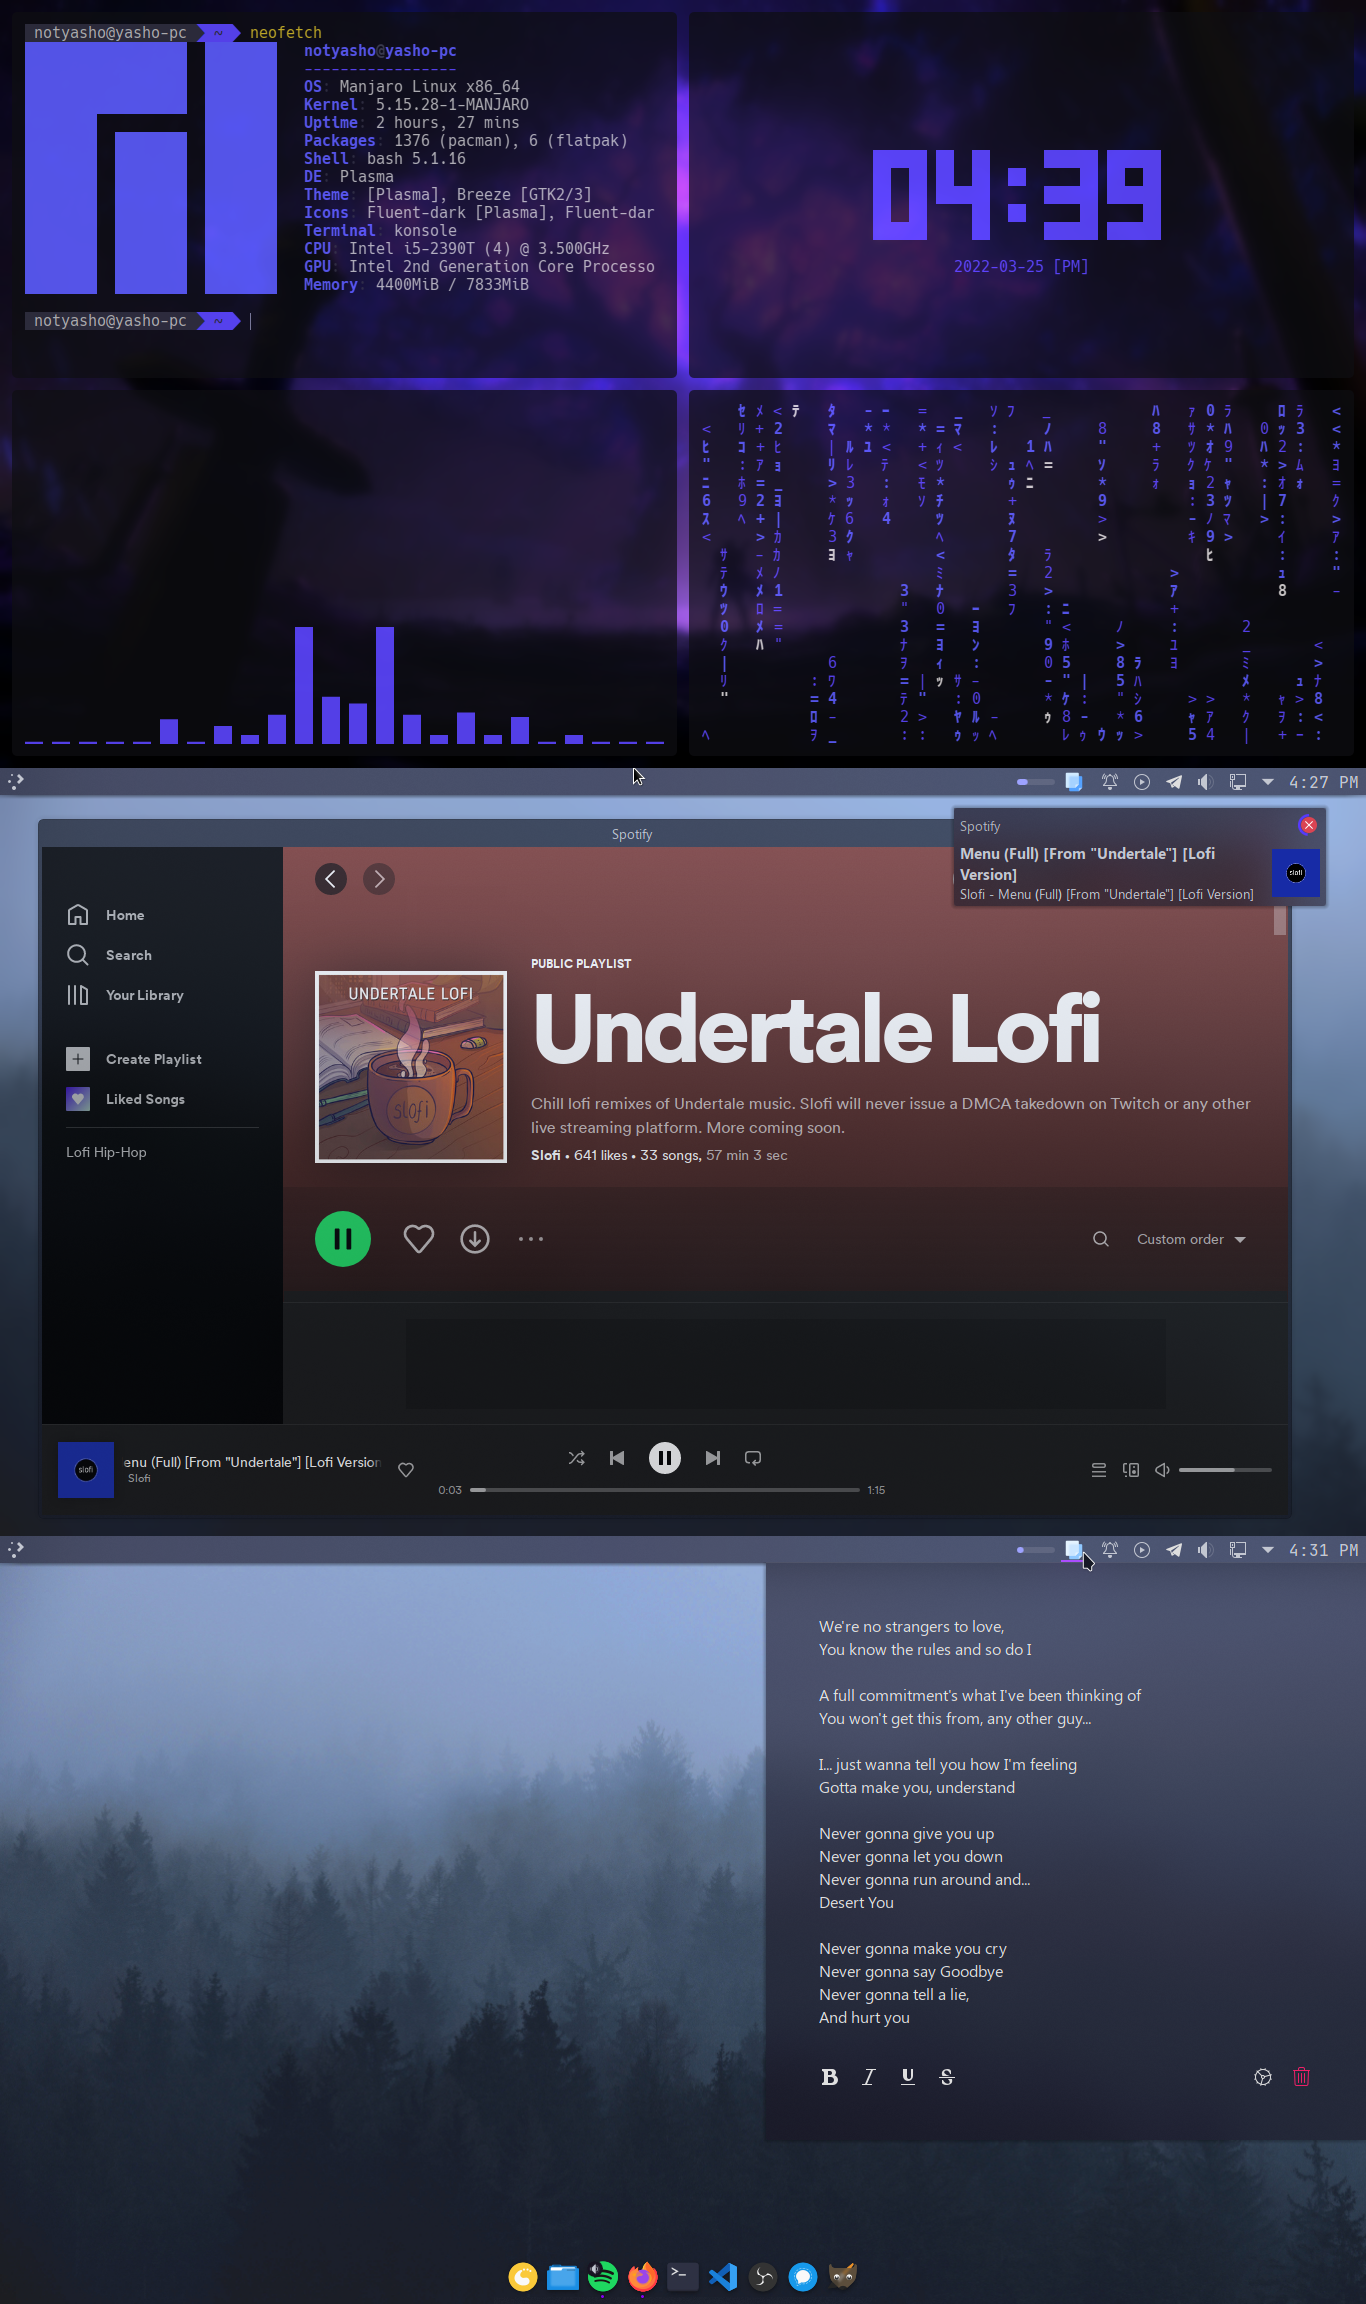
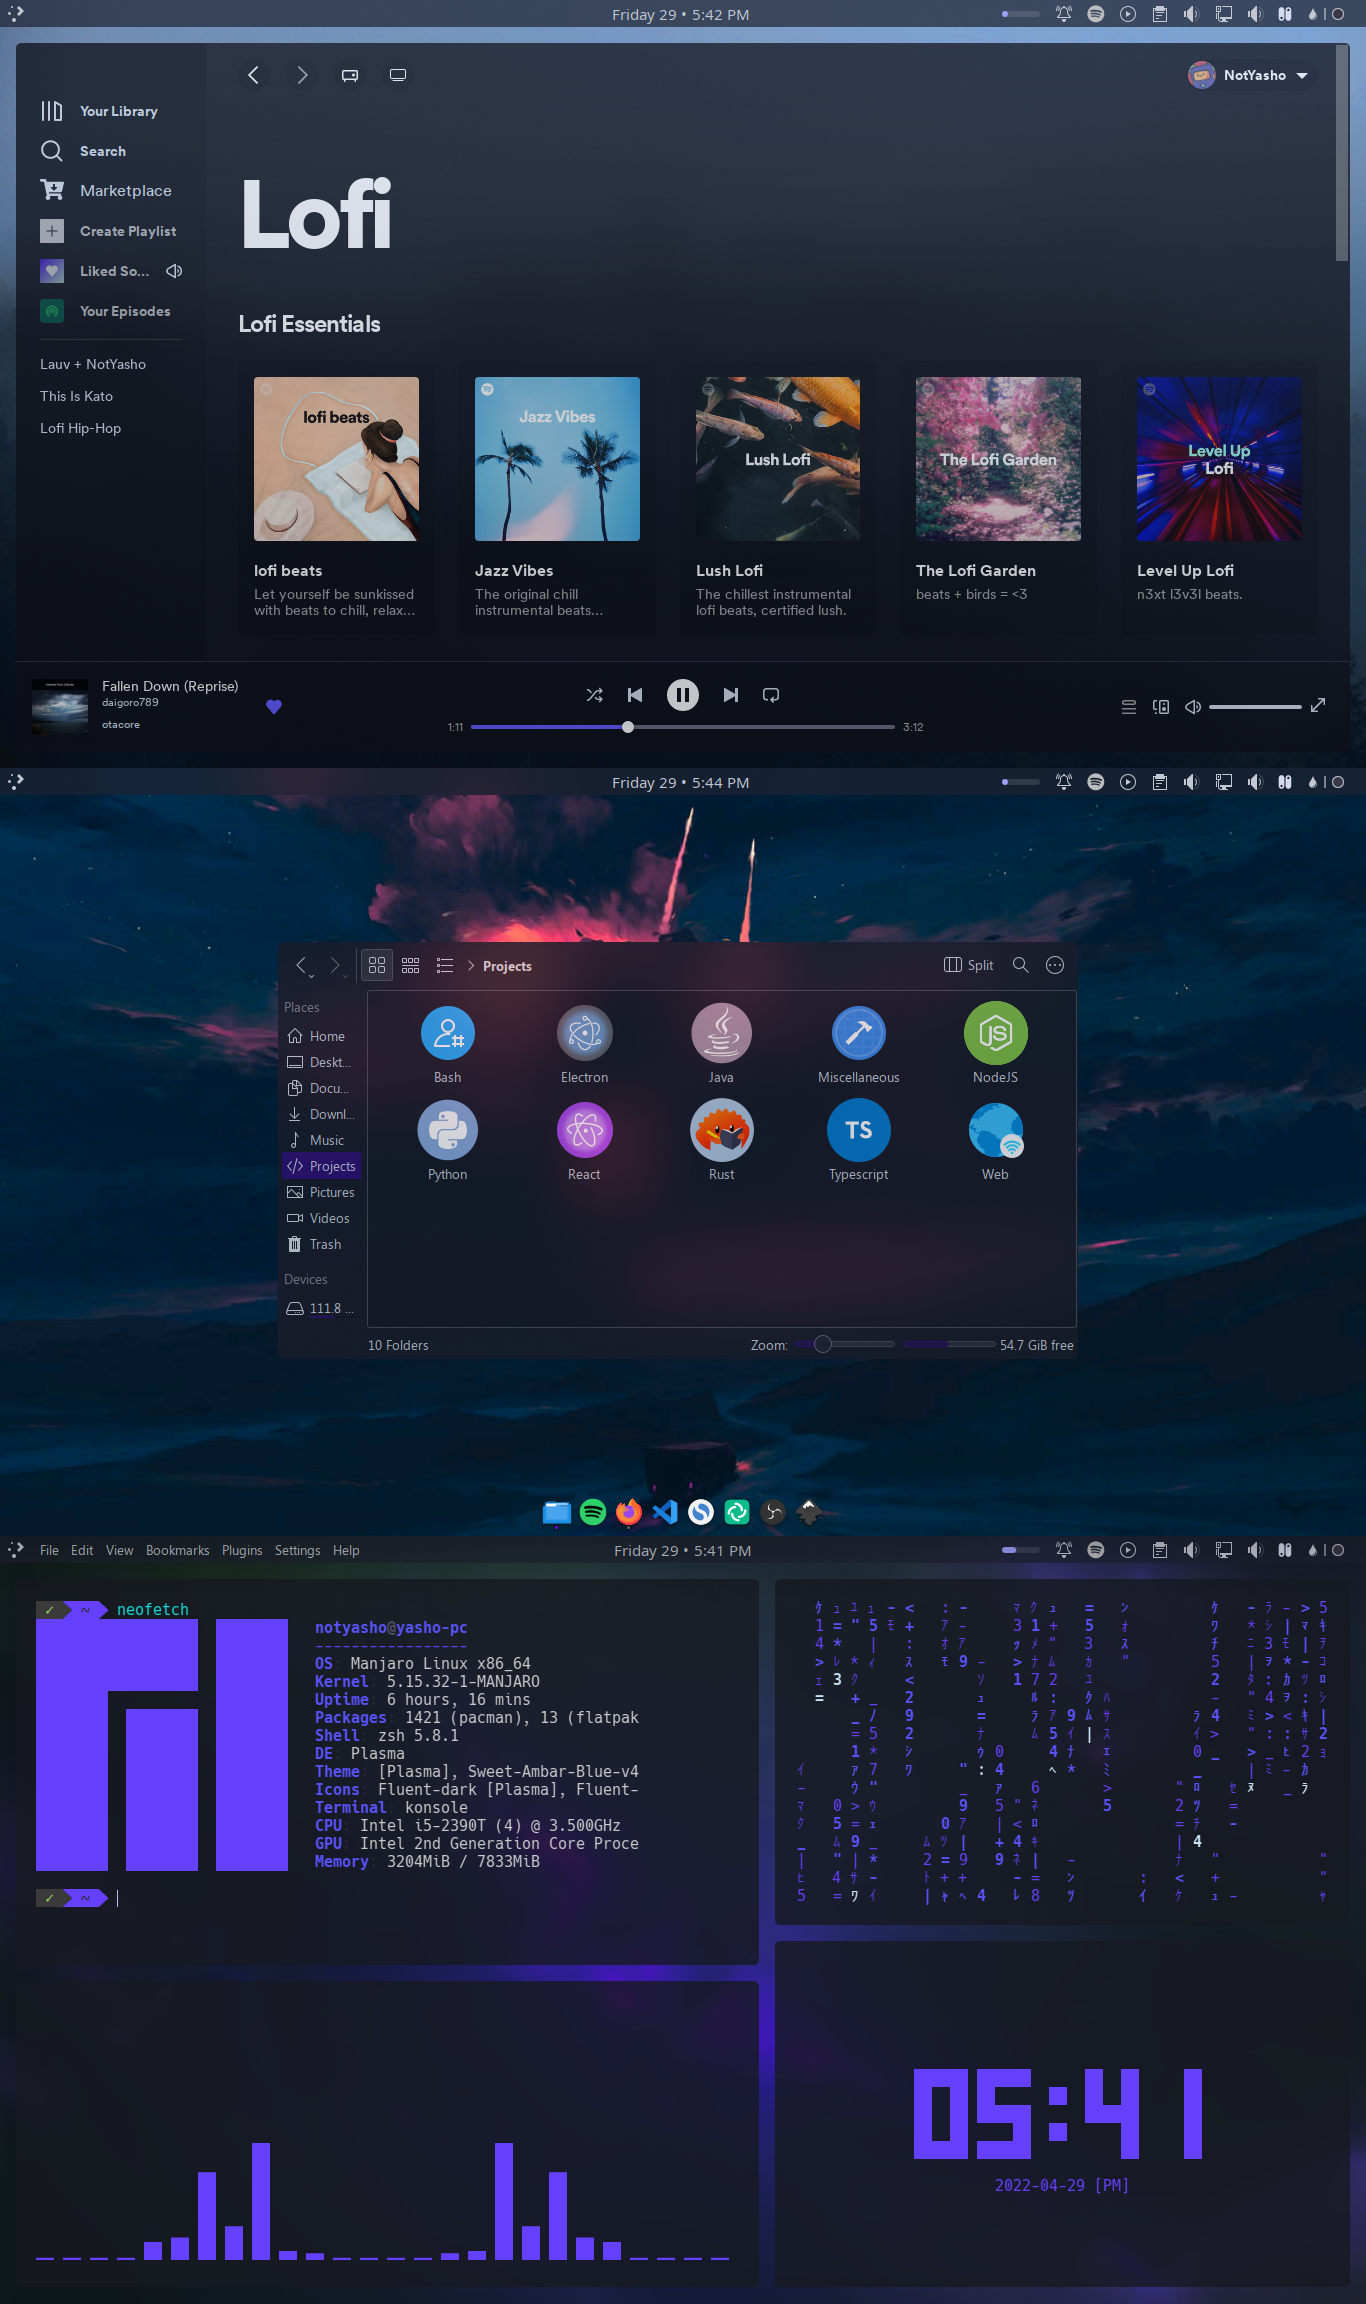
New backup 2022-04-29 18:37:07

diff --git a/README.md b/README.md
@@ -8,9 +8,9 @@
 - Terminal Font: Hack Nerd Font
 - Icons: [Fluent Dark](https://store.kde.org/p/1280231)
 - Cursor: [Sweet-cursors](https://store.kde.org/p/1393084/)
-- [Wallpapers](https://imgur.com/a/jYjd4Pe)
 - VSCode Theme: [Ocean High Contrast](https://marketplace.visualstudio.com/items?itemName=NotYasho.ocean-high-contrast)
 - Firefox Theme: [Tokyo Night Purple](https://addons.mozilla.org/en-US/firefox/addon/tokyo-night-purple/)
+- Firefox New Tab: [NightTab](https://addons.mozilla.org/en-US/firefox/addon/nighttab/)
 
 ### Applications
 
@@ -22,10 +22,7 @@
 
 ### Kwin Scripts
 - Force Blur
-- Tile Gaps
+- [Grid-Tiling](https://github.com/lingtjien/Grid-Tiling-Kwin)
 
-![](Screenshots/desktop.webp)
-![](Screenshots/logout.png)
+![](Screenshots/desktop.png)
 ![](Screenshots/workflow.png)
-
-*thank you for all the upvotes on reddit <3*
